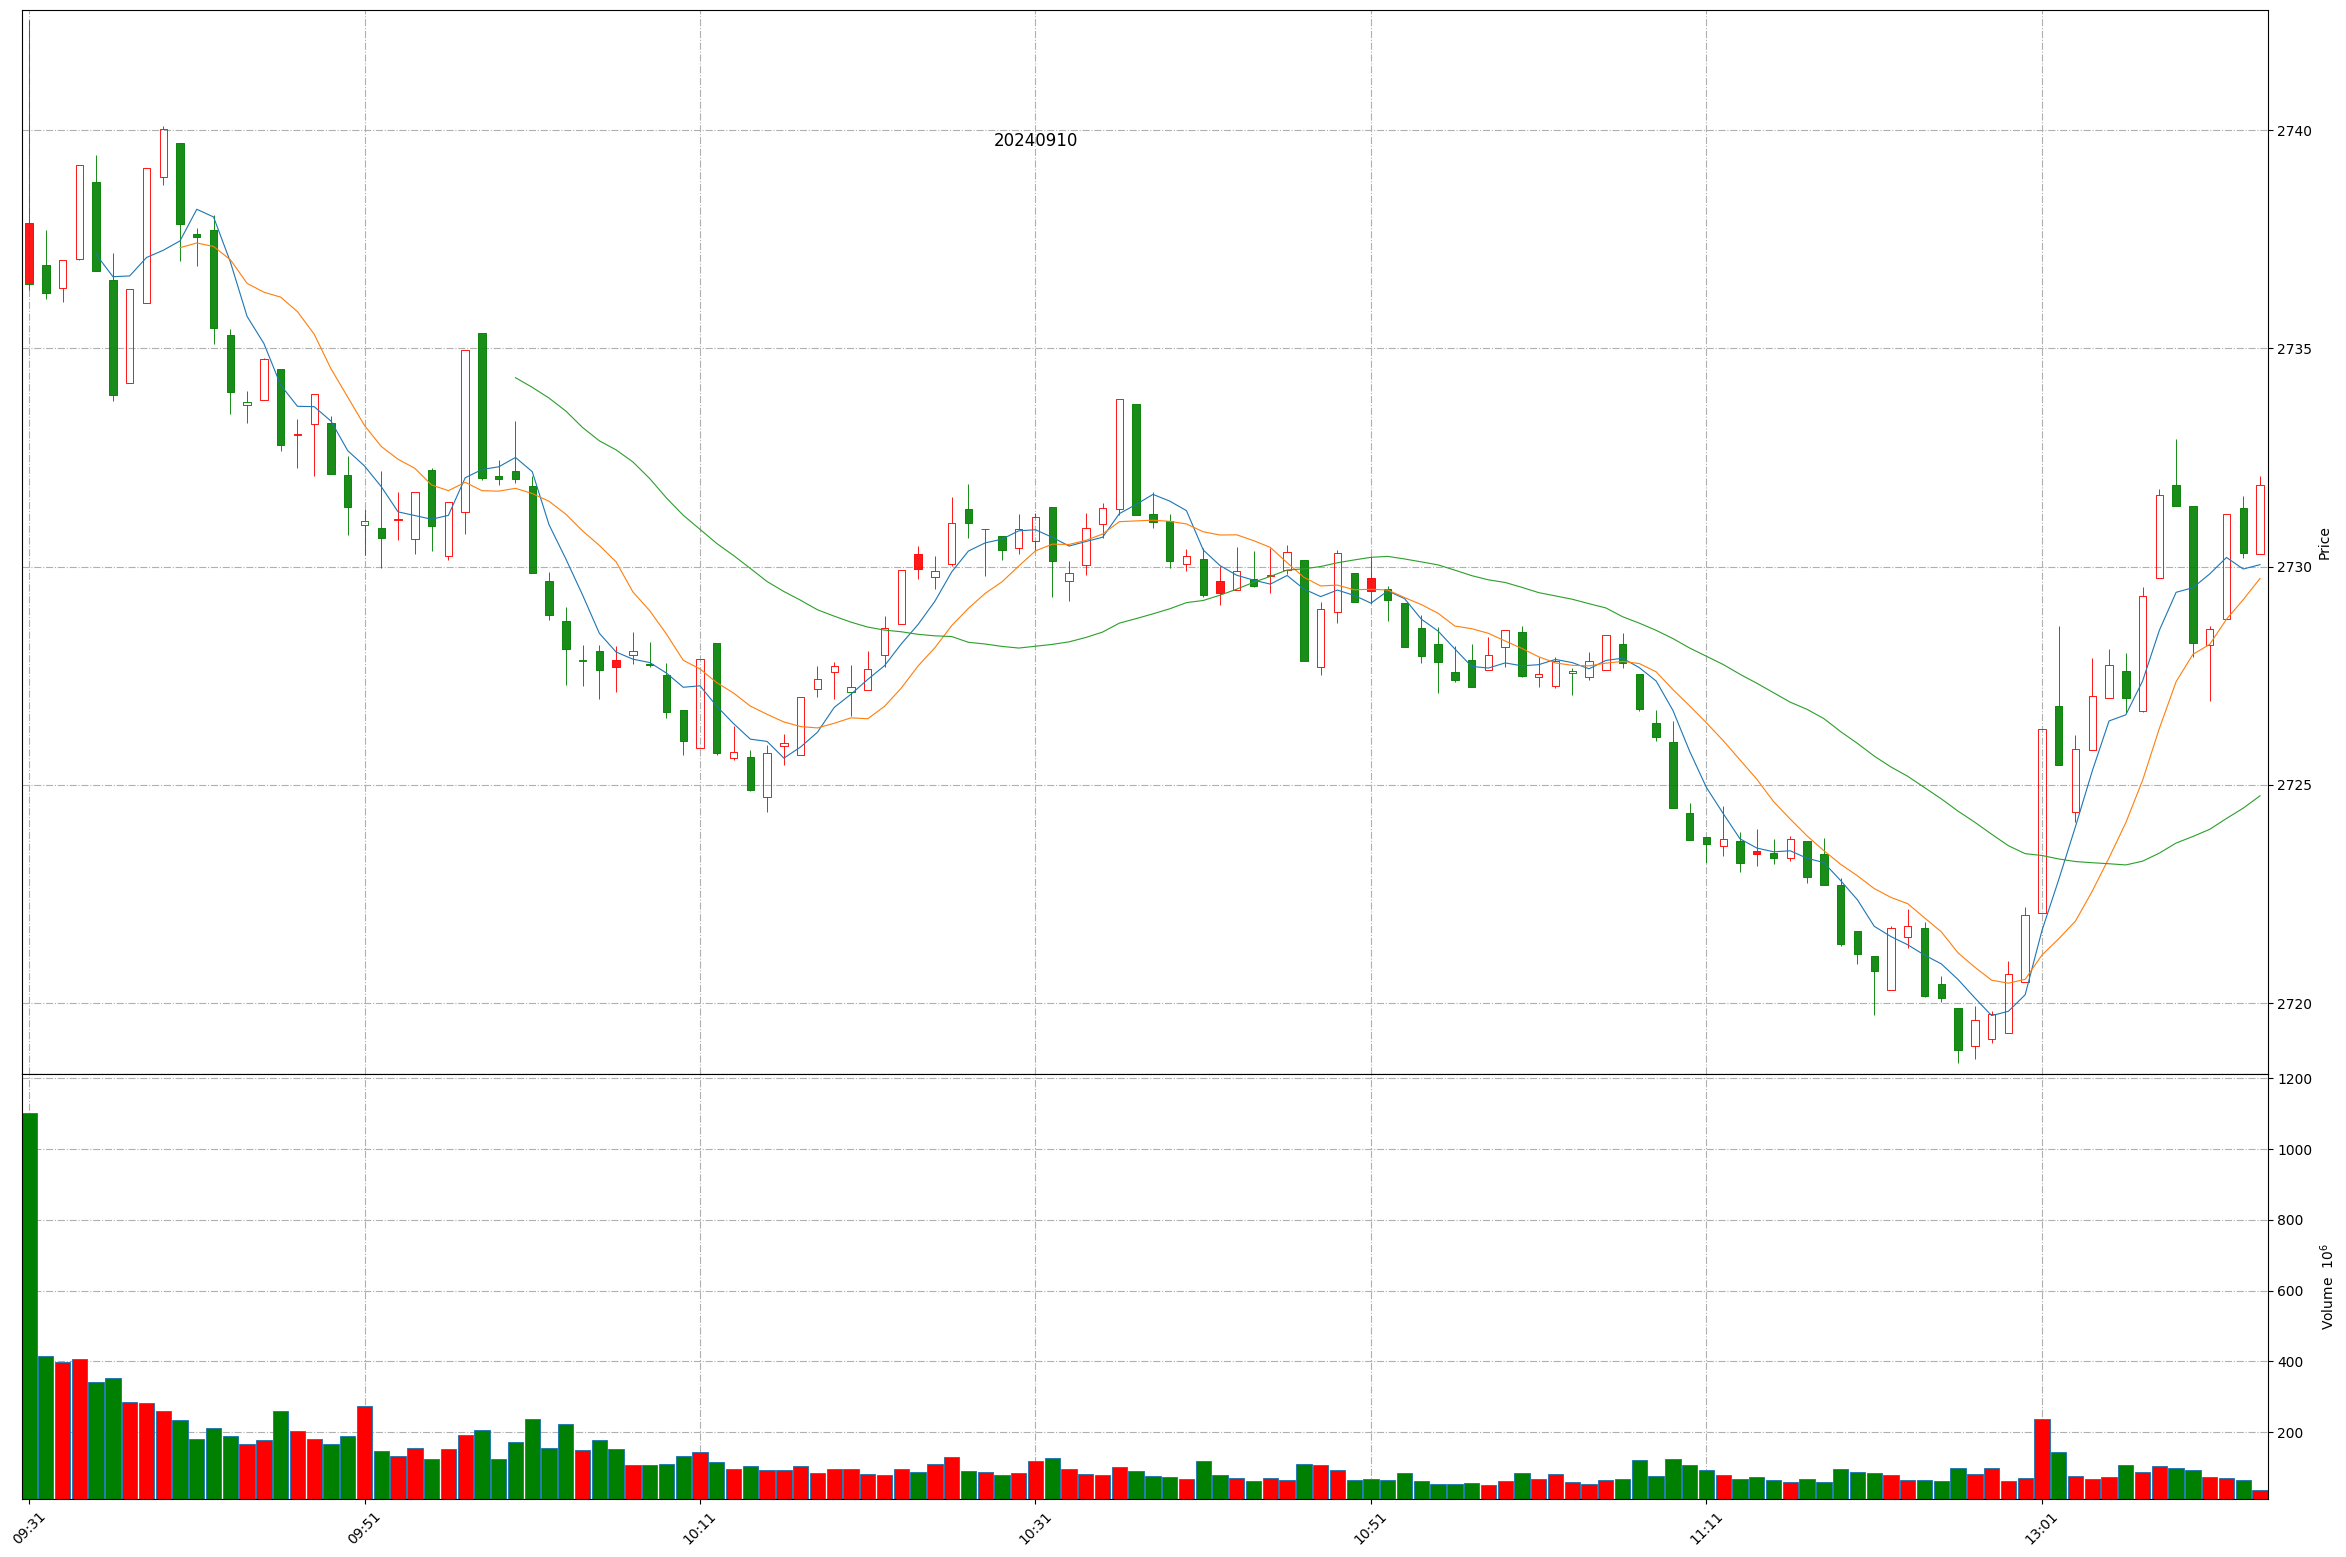
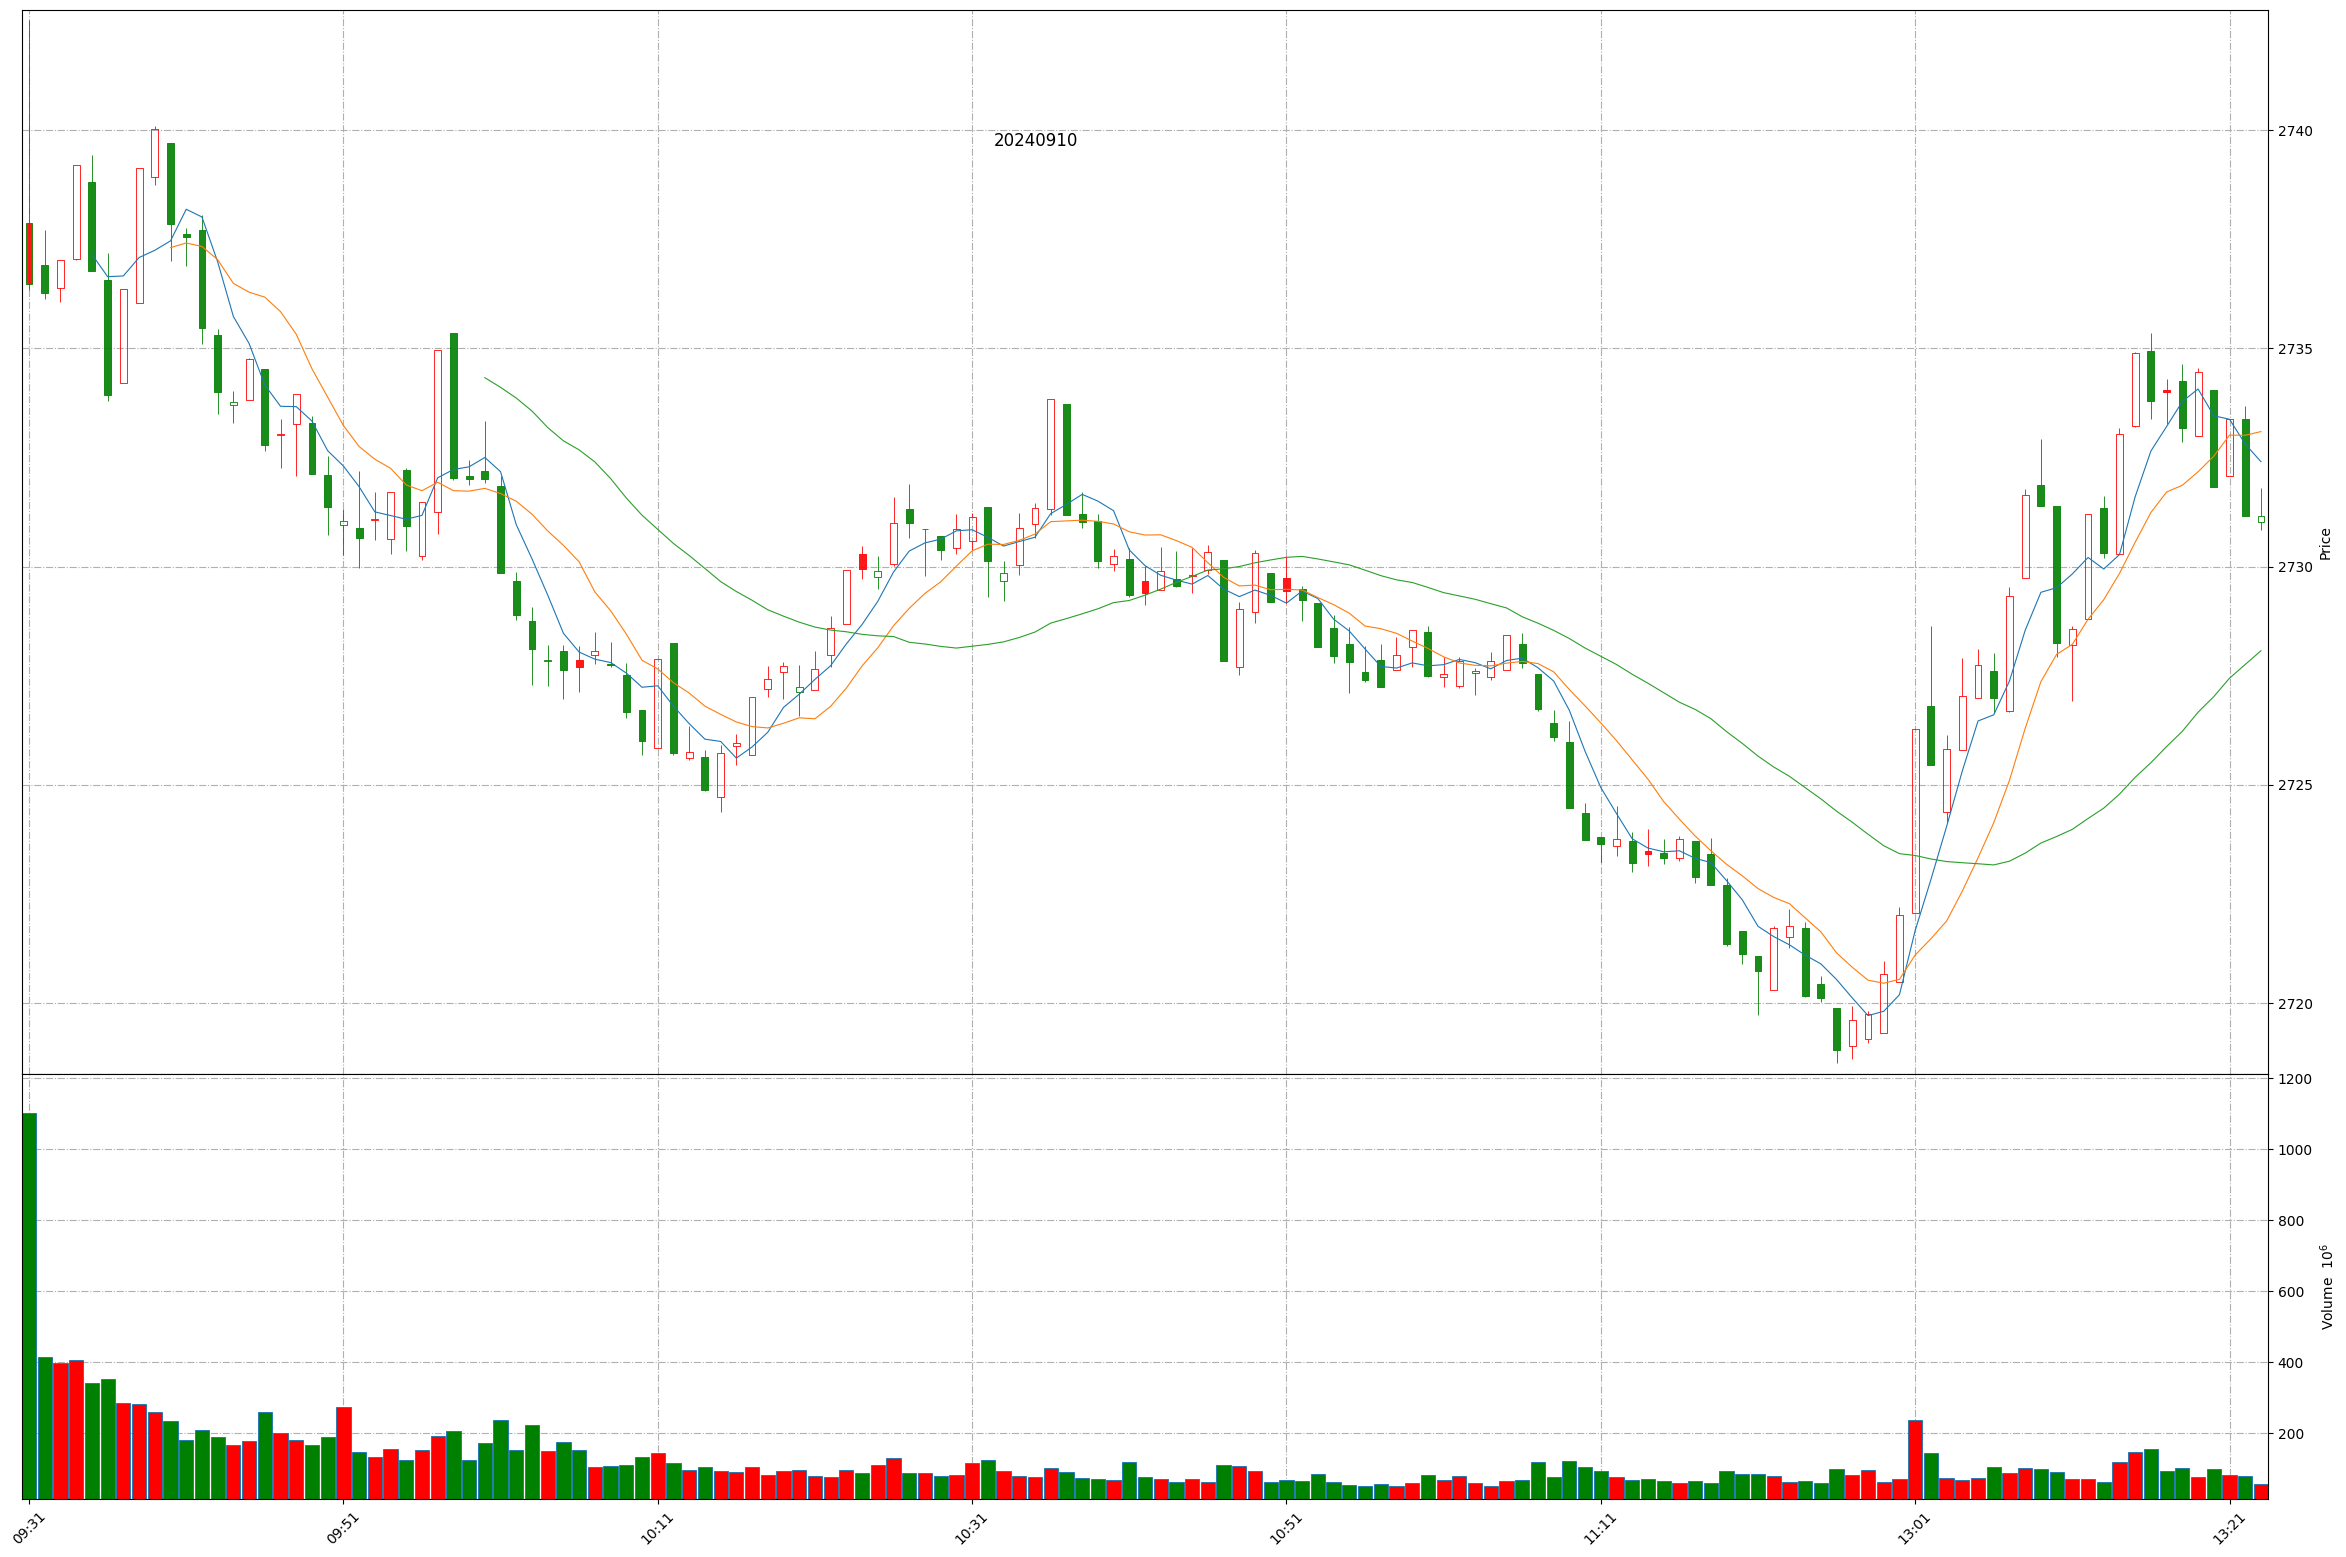
Github action update at 2024-09-10 13:23:22.

diff --git a/README.md b/README.md
@@ -1,11 +1,11 @@
 
 # Daily-A-share-market-quotes 每日 A 股指数（5min 更新）- 20240910
 
-### 上证指数 20240910 13:13
+### 上证指数 20240910 13:23
 ![](./fig/2024/9/20240910-sh000001.png)
 
-### 深证成指 20240910 13:13
+### 深证成指 20240910 13:23
 ![](./fig/2024/9/20240910-sz399001.png)
 
-### 北证50 20240910 13:13
+### 北证50 20240910 13:23
 ![](./fig/2024/9/20240910-bj899050.png)
